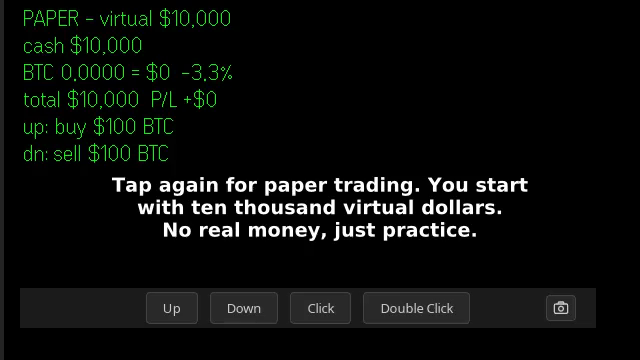
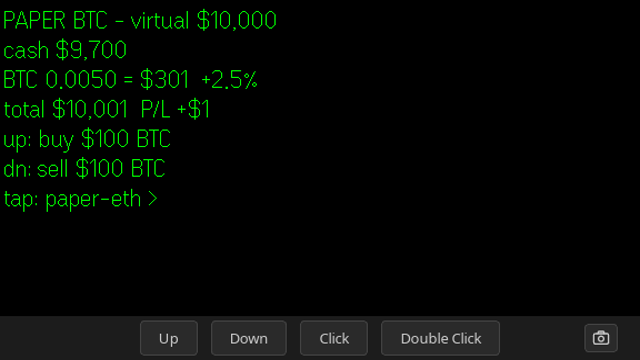
docs: v5 screenshots + YouTube demo link

Changed region(s): [[0.0, 0.0, 1.0, 1.0]]

diff --git a/README.md b/README.md
@@ -69,13 +69,25 @@ Glasses display (576×288), captured in the Even Hub simulator.
 
 *TICKER — live BTC + ETH prices from CoinGecko, auto-refresh every 60 seconds.*
 
-![ODDS — Polymarket crypto markets](images/frame-odds.png)
+![ODDS — Polymarket crypto markets](images/frame-odds-v5.png)
 
-*ODDS — top crypto markets on Polymarket with live YES %.*
+*ODDS — top crypto markets on Polymarket with live YES %, each with a short distinct label (v5).*
 
 ![PAPER — virtual $10,000 portfolio](images/frame-paper.png)
 
 *PAPER — virtual $10,000 portfolio, buy/sell $100 per swipe.*
+
+![VOICE — push-to-talk voice commands](images/frame-voice-v5.png)
+
+*VOICE — push-to-talk voice commands via Groq Whisper (`buy 100 bitcoin`, `set alert 58000`, `show odds`).*
+
+![ALERTS — BTC price alert + Telegram bot](images/frame-alerts-v5.png)
+
+*ALERTS — BTC price alert (target $62,000, WAITING) with the Telegram bot row (`@polyglance_alerts_bot`).*
+
+## Demo
+
+▶ [Watch the 86-second demo on YouTube](https://www.youtube.com/watch?v=RKabw4oZtu8) — "PolyGlance — Crypto at a Glance on Even Realities G2 (Voice + Telegram)": TICKER, ODDS, paper trading, ALERTS, a live voice command, and the Telegram bot in action.
 
 ## Tech stack
 
@@ -134,7 +146,7 @@ src/voice.ts      # Voice command parser + PCM-to-WAV + mic level (unit-tested)
 src/stt.ts        # Groq Whisper STT + Worker proxy fallback (unit-tested)
 index.html        # Vite entry + companion settings page (Groq key, STT proxy URL, test chips)
 vite.config.ts    # Vite config (template)
-images/           # Simulator screenshots (TICKER / ODDS / PAPER)
+images/           # Simulator screenshots (TICKER / ODDS / PAPER / VOICE / ALERTS)
 watcher/          # Telegram bot + price watcher (Cloudflare Worker, Node fallback, tests)
 tests/            # Unit tests: voice parser (40), STT fallback (18), watcher core (30)
 polyglance.ehpk   # Packaged v5 app for the simulator / Even App
